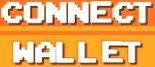
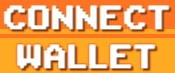
Version 5.1:
Correções:
- Alterações nos arquivos realacionados a função de ‘login’.
- Imagem do logo de 'login' atualizada.

diff --git a/execute.py b/execute.py
@@ -190,7 +190,7 @@ def screenRoundNewMap():
 def loginFunction():
 
     # Tempo para retorna a página inicial.
-    time.sleep(30)
+    time.sleep(3)
 
     printScreem(0)
 
@@ -206,8 +206,10 @@ def loginFunction():
     # Tempo para carregar
     time.sleep(5)
 
+    # Layout alterado
+    """
     printScreem(0)
-
+        
     # Posição da palavra "MetaMask".
     x, y = objectsScreen.positionSelectWallet()
 
@@ -219,6 +221,7 @@ def loginFunction():
 
     # Tempo para carregar
     time.sleep(5)
+    """
 
     printScreem(0)
 

diff --git a/executeSecondScreen.py b/executeSecondScreen.py
@@ -208,8 +208,10 @@ def loginFunction2():
     # Tempo para carregar
     time.sleep(5)
 
+    # Layout alterado
+    """
     printScreem(2)
-
+    
     # Posição da palavra "MetaMask".
     x, y = objectsScreen.positionSelectWallet()
 
@@ -221,7 +223,7 @@ def loginFunction2():
 
     # Tempo para carregar
     time.sleep(5)
-
+    """
     printScreem(2)
 
     # Posição da palavra "Sign".

diff --git a/positionsObjectsScreen.py b/positionsObjectsScreen.py
@@ -91,7 +91,7 @@ def positionSelectWallet():
 
 # Tela de login
 def positionConfirmSign():
-    positionSign = findClickPositions('images/signLogin.jpg', 'screenShot.jpg', debug_mode='points')
+    positionSign = findClickPositions('images/signLogin.jpg', 'screenShot.jpg', threshold=0.6, debug_mode='points')
 
     return positionSign[0]
 

diff --git a/configMain.py b/configMain.py
@@ -13,10 +13,10 @@ minutosCasaBonecos = 20
 
 # Tempo de pausa, entre cada verificação da hora.
 # Valor em SEGUNDOS.
-timeSleep = 180
+timeSleep = 10
 
 # Função segunda tela.
-secondScreen = True
+secondScreen = False
 
 # Função que clica no botão "All" na tela dos personsagens.
 functionAll = True
